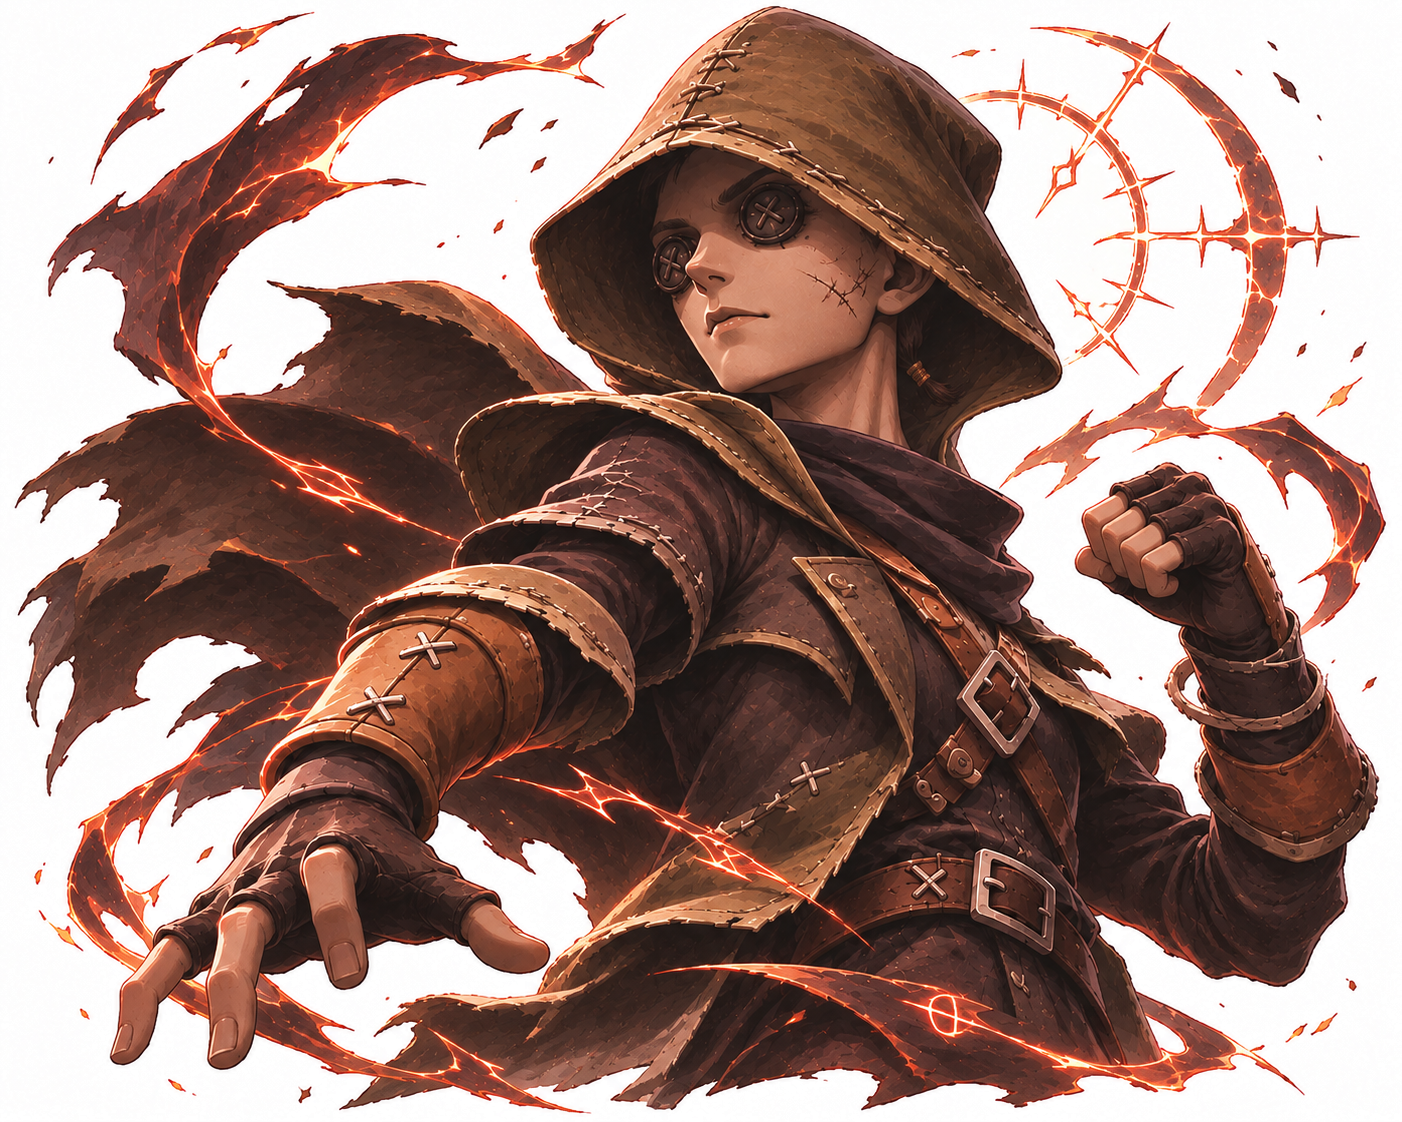
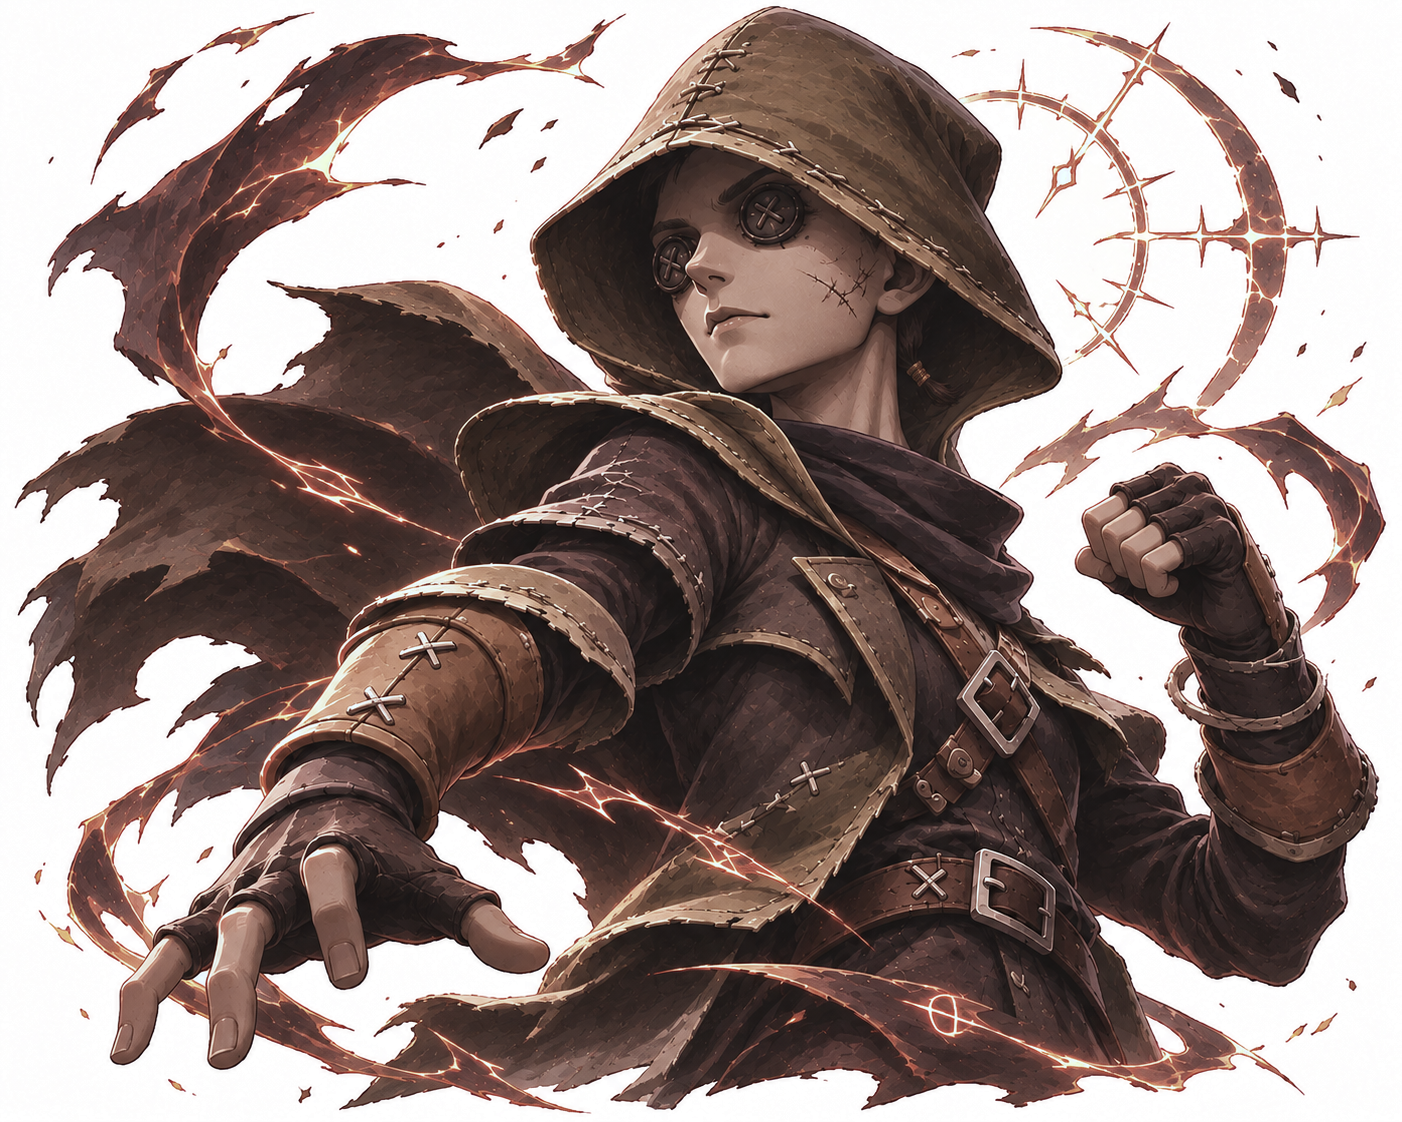
[FE] 용병 일러스트 붉은빛 중화(붉은 곳일수록 채도를 조금 낮추고 색온도를 살짝 식힘, 투명도는 그대로)

diff --git a/Assets/UI/Resources/Illustrations/README.md b/Assets/UI/Resources/Illustrations/README.md
@@ -18,7 +18,7 @@
 | 카우보이 | Survivor_Cowboy.png | ✅ (1402×1122, 흰 배경 — 둘레 흰 천 조각 효과는 뺌) |
 | 의사 | Survivor_Doctor.png | ✅ (1402×1122, 흰 배경) |
 | 포워드 | Survivor_Forward.png | ✅ (1402×1122, 원본 투명 배경 그대로) |
-| 용병 | Survivor_Mercenary.png | ✅ (1402×1122, 흰 배경) |
+| 용병 | Survivor_Mercenary.png | ✅ (1402×1122, 흰 배경 — 붉은빛을 조금 빼고 넣음) |
 | 맹인 | Survivor_MindsEye.png | ✅ (1199×1312, 배경까지 그린 그림 — 누끼 대신 가장자리를 서서히 투명하게) |
 | 도둑 | Survivor_Thief.png | ✅ (1402×1122, 투명 배경 — 채팅 첨부본) |
 
